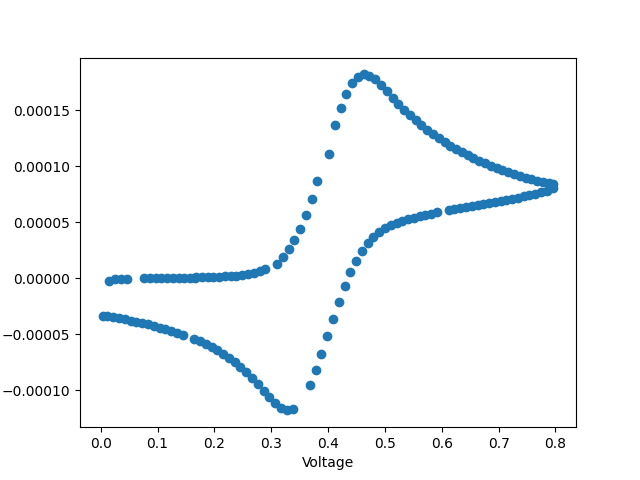
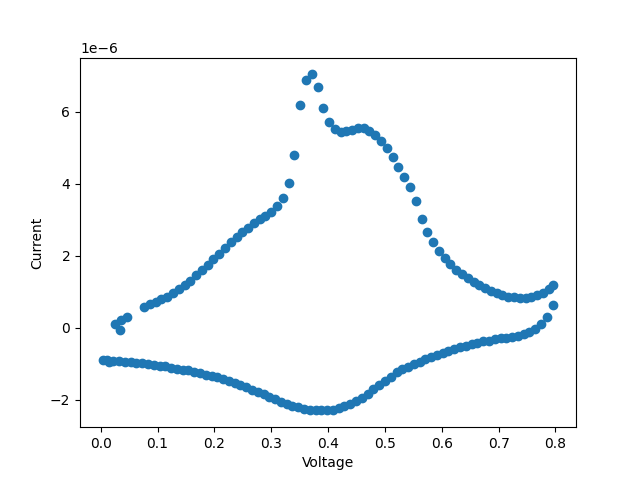
debug multi redox voltage sequence determination

diff --git a/robotics_api/workflows/Processing.py b/robotics_api/workflows/Processing.py
@@ -62,7 +62,7 @@ class ProcessCVBenchmarking(FiretaskBase):
 
         cv_location = cv_locations[-1]
         if not os.path.isfile(cv_location):
-            warnings.warn("WARNING! No CV locations found for CV benchmarking, so DEFAULT VOLTAGE RANGES WILL BE USED.")
+            warnings.warn("WARNING! CV file {} not found for CV benchmarking, so DEFAULT VOLTAGE RANGES WILL BE USED.".format(cv_location))
             return FWAction(update_spec=dict(**updated_specs))
         data = ProcessCV(cv_location, _id=mol_id, parsing_class=ParseChiCV).data_dict
         new_location = os.path.join("\\".join(cv_location.split("\\")[:-1]), "benchmark_cv.csv")
@@ -76,10 +76,13 @@ class ProcessCVBenchmarking(FiretaskBase):
                                                                        ylabel=MULTI_PLOT_YLABEL)
         descriptor_cal = CVDescriptorCalculator(connector={"scan_data": "data.scan_data"})
         peaks_dict = descriptor_cal.peaks(data)
-        forward_peak = mean([p[0] for p in peaks_dict.get("forward", [])])
-        reverse_peak = mean([p[0] for p in peaks_dict.get("reverse", [])])
+        print(peaks_dict)
+        forward_peak = max([p[0] for p in peaks_dict.get("forward", [])])
+        reverse_peak = min([p[0] for p in peaks_dict.get("reverse", [])])
 
-        voltage_sequence = "0, {}, {}, 0V".format(forward_peak + AUTO_VOLT_BUFFER, reverse_peak - AUTO_VOLT_BUFFER)
+        voltage_sequence = "{}, {}, {}V".format(reverse_peak - AUTO_VOLT_BUFFER, forward_peak + AUTO_VOLT_BUFFER,
+                                                reverse_peak - AUTO_VOLT_BUFFER)
+
         print("BENCHMARKED VOLTAGE SEQUENCE: ", voltage_sequence)
 
         updated_specs.update({"voltage_sequence": voltage_sequence, "cv_locations": [], "cv_idx": 0,

diff --git a/robotics_api/workflows/wf_writer.py b/robotics_api/workflows/wf_writer.py
@@ -20,13 +20,12 @@ def run_expflow_wf(expflow_wf: dict,  name_tag='', exp_params={}, **kwargs):
         Fireworks Workflow object
     """
     name = expflow_wf.get("name") + "_" + name_tag.strip("_")
-    exp_params.update({"name": name})
     f10 = InitializeExperiment(name=expflow_wf.get("name") + ("_" + name_tag).strip("_"))
     fws = [f10]
     robot_experiments = []
 
     for i, expflow_exp in enumerate(expflow_wf.get("experiments")):
-        exp_params.update({"name": "exp{:02d}".format(i+1), "wflow_name": expflow_wf.get("name")})
+        exp_params.update({"name": "exp{:02d}".format(i+1), "wflow_name": name})
         experiment = EF2Experiment(expflow_exp, "Robotics", fw_parents=f10, data_type=kwargs.get('data_type', 'cv'), exp_params=exp_params, priority=2)
         fws.extend(experiment.fireworks)
         robot_experiments.append(experiment.end_exp)

diff --git a/robotics_api/workflows/actions/cv_techniques.py b/robotics_api/workflows/actions/cv_techniques.py
@@ -360,6 +360,7 @@ class CvExperiment(PotentiostatExperiment):
                  cut_end=CUT_END,
                  time_out=TIME_OUT,
                  min_steps=MIN_CV_STEPS,
+                 rcomp_level=RCOMP_LEVEL,
                  load_firm=True):
         super().__init__(6, time_out=time_out, load_firm=load_firm, cut_beginning=cut_beginning, cut_end=cut_end)
 
@@ -370,6 +371,7 @@ class CvExperiment(PotentiostatExperiment):
         self.record_every_de = record_every_de
         self.average_over_de = average_over_de
         self.n_cycles = n_cycles
+        self.rcomp_level = rcomp_level  # TODO figure out iR comp
 
         self.params = self.parameterize()
         self.data = []

diff --git a/robotics_api/standard_variables.py b/robotics_api/standard_variables.py
@@ -27,6 +27,7 @@ ECLIB_DLL_PATH = r"C:\EC-Lab Development Package\EC-Lab Development Package\\ECl
 POTENTIOSTAT_ADDRESS = "USB0"
 POTENTIOSTAT_CHANNEL = 1
 
+RCOMP_LEVEL = 85
 N_CYCLES = 0
 SCAN_NUMBER = 1  # Not currently included in CV parameters
 AVERAGE_OVER_DE = True
@@ -43,10 +44,12 @@ TIME_AFTER_CV = 5  # seconds
 
 AUTO_VOLT_BUFFER = 0.3  # Volts
 
-# ---------  PLOTTING VARIABLES -------------
+# ---------  PROCESSING VARIABLES -------------
 MULTI_PLOT_XLABEL = "Potential (V)"
 MULTI_PLOT_YLABEL = "Current (A)"
 MULTI_PLOT_LEGEND = "Scan Rate (V/s)"
+
+PEAK_WIDTH = 0.5
 
 # ---------  ARDUINO VARIABLES -------------
 ARDUINO_DEFAULT_ADDRESS = "COM4"
